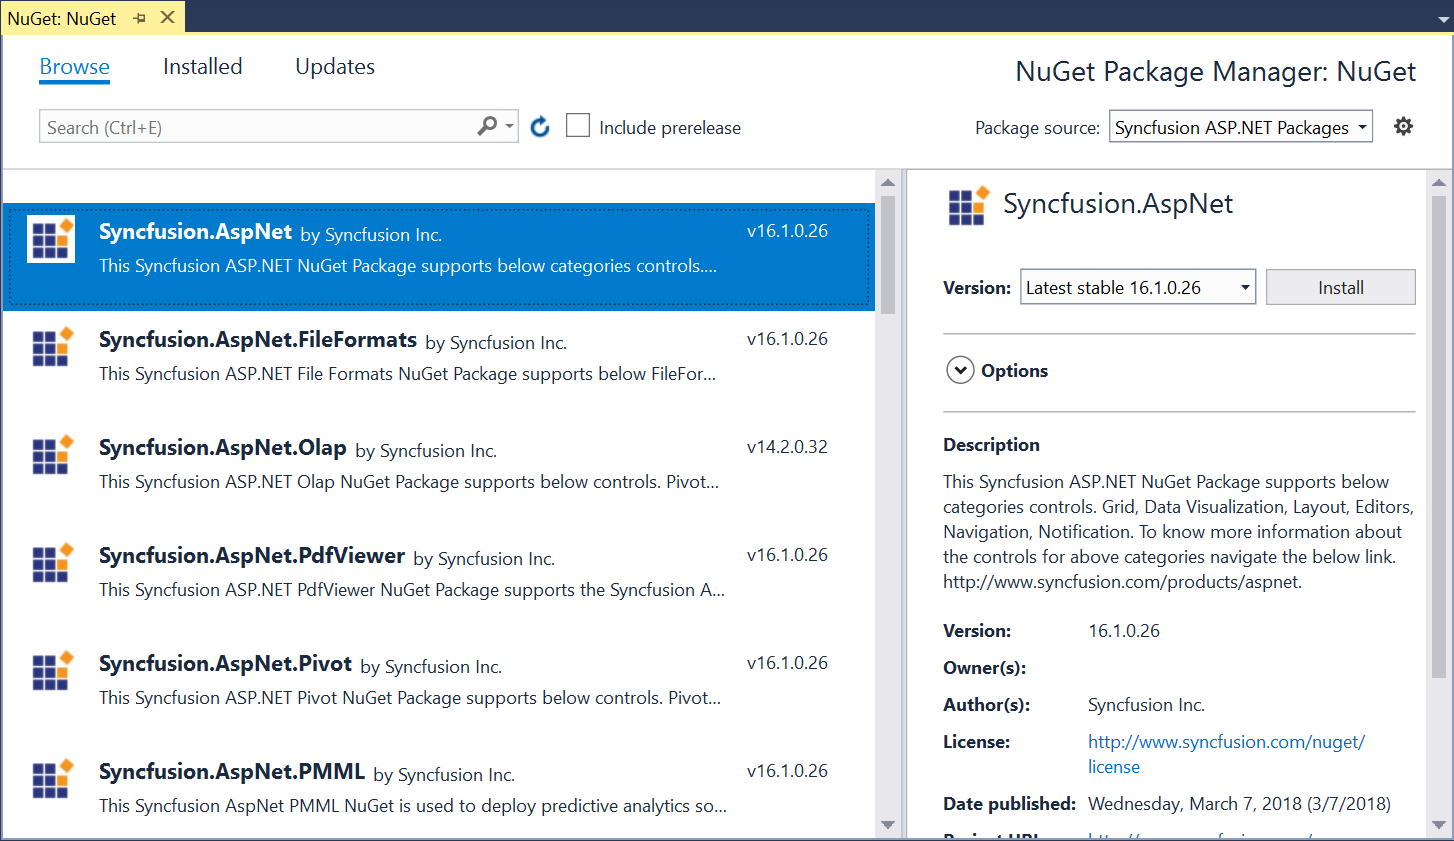
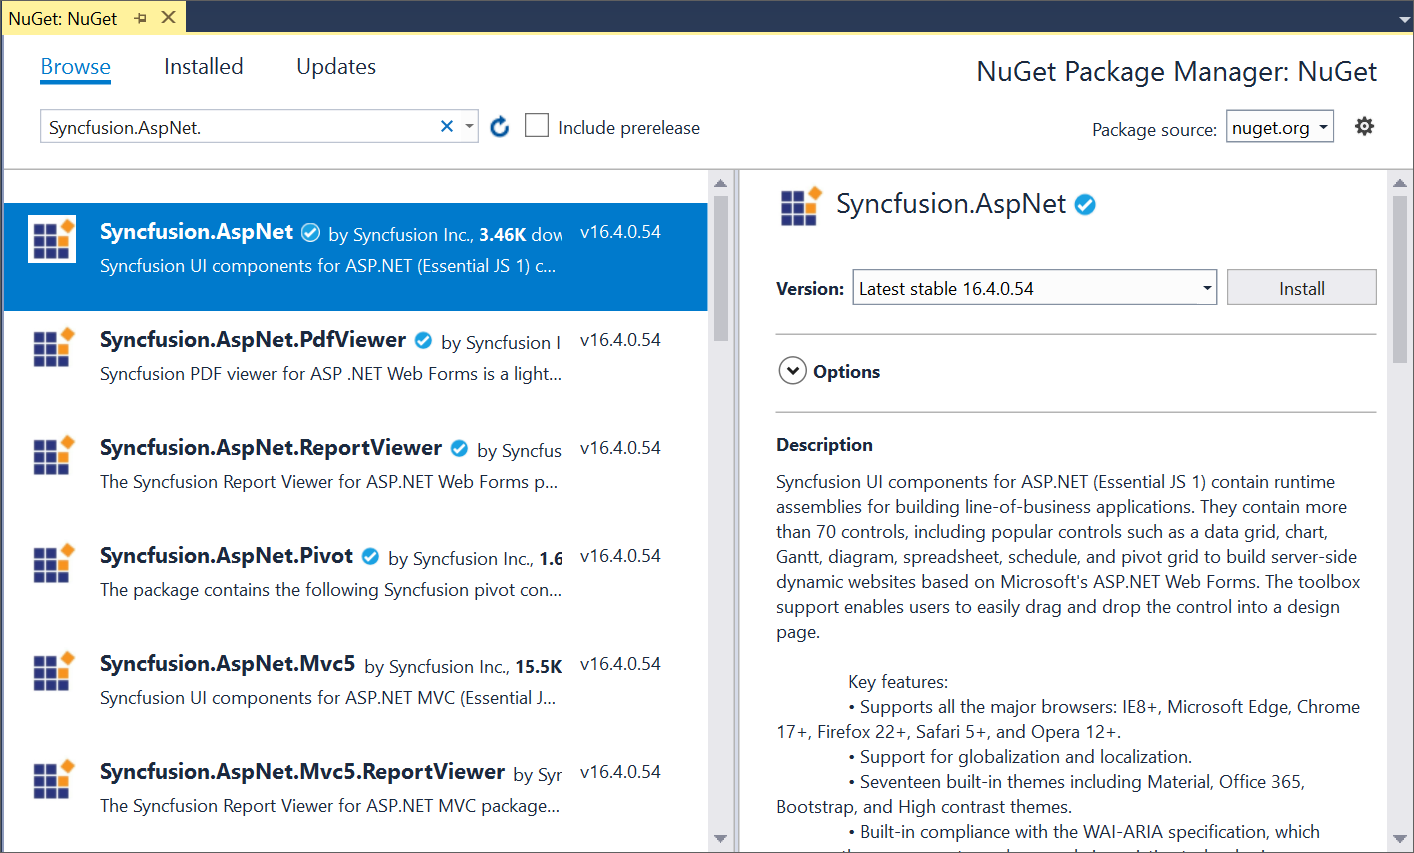
EXT-4130_NugetOrg_Content_added_ASPNET_Changes_committed

Changed region(s): [[0.0, 0.0, 1.0, 1.0], [0.0, 0.0, 0.1556, 0.0309]]

diff --git a/aspnet/NuGet-Packages.md b/aspnet/NuGet-Packages.md
@@ -13,96 +13,37 @@ NuGet is a package manager for the .NET framework. The NuGet client tools simpli
 
 N> You can use the Syncfusion ASP.NET Web Forms NuGet packages without installing the Essential Studio or ASP.NET Web Forms platform installation to implement the Syncfusion ASP.NET controls.
 
-## Get the Syncfusion NuGet feed URL
-
-You should get the private Syncfusion ASP.NET Web Forms NuGet feed URL to install or upgrade the Syncfusion ASP.NET Web Forms NuGet packages. To get the URL from Syncfusion website use the following steps:
-
-1. Navigate to [nuget.syncfusion.com](https://nuget.syncfusion.com/), and select **WEB** tab.     
-
-2. Navigate to **WEB (Essential JS1)**, click the Copy URL label under ASP.NET Web Forms platform to copy the Syncfusion ASP.NET Web Forms platform NuGet feed to clipboard or directly use the following URL: 
-
-    [https://nuget.syncfusion.com/nuget_aspnet/nuget/getsyncfusionpackages/aspnet](https://nuget.syncfusion.com/nuget_aspnet/nuget/getsyncfusionpackages/aspnet) 
-
-    ![](NuGet_Packages_Images/img1.png)
-
-3. Now, use this NuGet feed URL to access the Syncfusion NuGet Packages in Visual Studio. 
-
-## Add the Syncfusion NuGet feed URL
-
-### Windows
-
-1.	Open your Visual Studio application. 
-
-2.	On the **Tools** menu, select **Options**.
-
-3.	Expand the **NuGet Package Manager** and select **Package Sources**.
-
-4.	Click the **Add** button (green plus), and enter the ‘Package Name’ and ‘Package Source URL’ of the Syncfusion ASP.NET Web Forms NuGet packages.
-    
-    **Name:** Name of the package listed in the available package sources.
-    
-    **Source:** Syncfusion ASP.NET NuGet Feed URL      
-    [https://nuget.syncfusion.com/nuget_aspnet/nuget/getsyncfusionpackages/aspnet](https://nuget.syncfusion.com/nuget_aspnet/nuget/getsyncfusionpackages/aspnet).
-
-5.	Click the **Update** button to add the name and source details to package sources. 
-
-    ![](NuGet_Packages_Images/img2.png)
-
-### macOS 
-
-1.	Open your Visual Studio application. 
-
-2.	Right-click on the Packages folder in the project, and then select **Add Packages…**
- 
-    ![](NuGet_Packages_Images/img3.png)
-
-3.	Choose the **Configure Sources…** from the dropdown that appears in the left corner of the Add Packages dialog. 
-
-    ![](NuGet_Packages_Images/img4.png)
-
-4.	At the bottom right corner of the dialog, click the **Add** button to enter the feed name and the URL. 
-   
-    **Name:** Enter the name (For e.g., Syncfusion ASP.NET Web Forms Packages).
-   
-    **Location:** Enter the following URL – [https://nuget.syncfusion.com/nuget_aspnet/nuget/getsyncfusionpackages/aspnet](https://nuget.syncfusion.com/nuget_aspnet/nuget/getsyncfusionpackages/aspnet).
-
-    ![](NuGet_Packages_Images/img5.png)
- 
-5.	Now, click **Add Source** and then click **OK**.
-
 ## Installing NuGet Packages
 
 ### Using NuGet Package Manager
 
 The NuGet Package Manager can be used to search and install NuGet packages in the Visual Studio solution or project:
 
-1.	On the **Tools**, menu, NuGet `Package Manager | Manage NuGet Packages for Solution...`
+1.	Right-click the project or solution in the Solution Explorer tab, and choose **Manage NuGet Packages…**
 
     ![](NuGet_Packages_Images/img6.png)
 
-    Alternatively, right-click on the project/solution in Solution Explorer tab, and choose **Manage NuGet Packages…**
+    Alternatively, click **Tools** menu, `NuGet Package Manager | Manage NuGet Packages for Solution...`
 
-2.	By default, the NuGet.org package is selected in the **Package source** drop-down. Select your appropriate feed name that you configured. 
+2.	By default, the NuGet.org package is selected in the **Package source** drop-down. If NuGet.org is not configured in your Visual Studio, refer to the [Microsoft docs](https://docs.microsoft.com/en-us/nuget/tools/package-manager-ui#package-sources) to configure NuGet.org feed URL in your Visual Studio. 
 
      ![](NuGet_Packages_Images/img7.png)             
 
 3.	The Syncfusion ASP.NET Web Forms NuGet Packages are listed and available in the package source feed URL. Search and install the required packages in your application, by clicking **Install** button.
 
+N> The Syncfusion NuGet packages are published in public [NuGet.org](https://www.nuget.org/) from v16.2.0.46. So, If you need to Install earlier version of 16.2.0.46 Syncfusion NuGet packages, [configure Syncfusion private feed URL](https://help.syncfusion.com/extension/syncfusion-nuget-packages/nuget-packages#syncfusion-nuget-feed-url-configuration).
 
 ### Using Package Manager Console
 
-To reference the Syncfusion ASP.NET Web Forms component using the Package Manager Console as NuGet packages, 
+To reference the Syncfusion ASP.NET Web Forms component using the Package Manager Console as NuGet packages, follow the below steps. 
 
 1.	On the **Tools** menu, select **NuGet Package Manager** and then **Package Manager Console**. 
 
-2.	Run the following NuGet installation commands: 
+2.	Run the following NuGet installation commands. 
 
     ~~~
     #install specified package in default project
     Install-Package <Package Name>
-
-    #install specified package in default project with specified package source
-    Install-Package <Package Name> -Source <Source Location>
 
     #install specified package in specified project 
     Install-Package <Package Name> - ProjectName <Project Name>
@@ -114,9 +55,6 @@ To reference the Syncfusion ASP.NET Web Forms component using the Package Manage
     #install specified package in default project
     Install-Package Syncfusion.AspNet
 
-    #install specified package in default project with specified Package Source
-    Install-Package Syncfusion.AspNet -Source “https://nuget.syncfusion.com/nuget_aspnet/nuget/getsyncfusionpackages/aspnet”
-
     #install specified package in specified project 
     Install-Package Syncfusion.AspNet -ProjectName SyncfusionDemoApplication
     ~~~
@@ -125,13 +63,13 @@ To reference the Syncfusion ASP.NET Web Forms component using the Package Manage
 ### Using Visual Studio for macOS
 
 
-Add packages can be used to search and install NuGet packages to the Visual Studio project in macOS:
+Add packages can be used to search and install NuGet packages to the Visual Studio project in macOS.
 
-1.	Right-click on the folder in the project, and then select **Add Packages…** 
+1.	Right-click the folder in the project, and then select **Add Packages…** 
 
     ![](NuGet_Packages_Images/img8.png)  
               
-2.	By default, the NuGet.org package is selected in the **Package source** drop-down. Select the appropriate feed name. 
+2.	By default, the NuGet.org package is selected in the **Package source** drop-down. 
 
     ![](NuGet_Packages_Images/img9.png)  
 
@@ -141,39 +79,15 @@ Add packages can be used to search and install NuGet packages to the Visual Stud
 
 The NuGet Command Line Interface (CLI), nuget.exe, provides the full extent of NuGet functionality to install, create, publish, and manage packages without making any change to the project files.
 
-### Configure NuGet feed URL 
-
 1.	Download the latest NuGet CLI from [here](https://dist.nuget.org/win-x86-commandline/latest/nuget.exe).
 
-    N> To update the existing nuget.exe to latest version use the following command:
+    N> To update the existing nuget.exe to latest version use the following command.
 
     ~~~
     nuget update -self
     ~~~
 
-2.	Open the downloaded executable location in the command window, and run the following commands to configure the Syncfusion ASP.NET Web Forms NuGet packages: 
-
-    ~~~
-    #Add specified package source in NuGet.config file for Windows platform
-    nuget.exe Sources Add –Name <Source name> –Source <Source location>
-
-    #Add specified Package Source in Nuget.config file for MAC/Linux platform
-    mono nuget.exe Sources Add –Name <Source name> –Source <Source location>
-    ~~~
-
-    **For example:**
-
-    ~~~
-    #For Windows platform
-    nuget.exe Sources Add –Name “Syncfusion Source” –Source “https://nuget.syncfusion.com/nuget_aspnet/nuget/getsyncfusionpackages/aspnet”
-
-    #For MAC/Linux platform
-    mono nuget.exe Sources Add –Name “Syncfusion Source” –Source “https://nuget.syncfusion.com/nuget_aspnet/nuget/getsyncfusionpackages/aspnet”
-    ~~~
-
-### NuGet installation
-
-Download and install the required NuGet packages to a project specified in the package.config. 
+2.	Open the downloaded executable location in the command window, and run the following commands to download and install the required NuGet packages to a project specified in the package.config.  
 
 ~~~
 #install specified package in default project from specified package source for Windows Platform 
@@ -194,27 +108,23 @@ nuget.exe install “Syncfusion.AspNet”
 #install all package which mention in package.config path for Windows 
 nuget.exe install “C:\Users\SyncfusionApplication\package.config”
 
-#install specific Syncfusion NuGet package with Syncfusion ASP.NET Web Forms NuGet feed for Windows 
-nuget.exe install “Syncfusion.AspNet” –Source "https://nuget.syncfusion.com/nuget_aspnet/nuget/getsyncfusionpackages/aspnet”
-
 #install specific package for Mac and Linux 
 mono nuget.exe install “Syncfusion.AspNet”
 
 #install all package which mention in package.config path for Mac and Linux 
 mono nuget.exe install “C:\Users\SyncfusionApplication\package.config”
-
-#install specific Syncfusion NuGet package with Syncfusion ASP.NET Web Forms NuGet feed for Mac and Linux 
-mono nuget.exe install “Syncfusion.AspNet” –Source “https://nuget.syncfusion.com/nuget_aspnet/nuget/getsyncfusionpackages/aspnet”
 ~~~
+
+N> If you need to Install earlier version of 16.2.0.46 Syncfusion NuGet packages, [configure Syncfusion private feed URL](https://help.syncfusion.com/extension/syncfusion-nuget-packages/nuget-packages#syncfusion-nuget-feed-url-configuration).
 
 ## Upgrading NuGet packages
 
-### Using NuGet Package Manger 
+### Using NuGet Package Manager 
 
-NuGet packages can be updated to their specific version or latest version available in the Visual Studio solution or project:
+NuGet packages can be updated to their specific version or latest version available in the Visual Studio solution or project.
 
-1. On the **Tools** menu, **NuGet Package Manager | Manage NuGet Packages for Solution...**
-    Alternatively, right-click on project/solution in the Solution Explorer tab, and choose **Manage NuGet Packages…**
+1. Right-click the project or solution in the Solution Explorer tab, and choose **Manage NuGet Packages…**
+   Alternatively, click **Tools** menu, `NuGet Package Manager | Manage NuGet Packages for Solution...`
 
 2. Select the **Updates** tab to see the packages available for update from the desired package sources. Select the required packages and the specific version from the dropdown, and click the **Update** button.
 
@@ -222,21 +132,21 @@ NuGet packages can be updated to their specific version or latest version availa
 
 Using **Update** context menu from Visual Studio for Mac application, NuGet packages can be updated:
 
-1.	Right-click on the Packages folder in the project, and select **Update**. 
+1.	Right-click the Packages folder in the project, and select **Update**. 
 
     ![](NuGet_Packages_Images/img10.png) 
 
-2.	This will update the NuGet package to the latest version. You can double-click Add packages and choose the specific version.
+2.	This will update the NuGet package to the latest version. You can double-click the Add packages and choose the specific version.
 
 N> To update all the projects from solution, use update option in the solution level. 
 
 ### Using Package Manger Console
 
-To update the installed Syncfusion ASP.NET Web Forms NuGet packages using the Package Manager Console: 
+To update the installed Syncfusion ASP.NET Web Forms NuGet packages using the Package Manager Console, follow the below steps. 
 
 1.	On the **Tools** menu, select **NuGet Package Manager**, and then **Package Manager Console.** 
 
-2.	Run the following NuGet installation commands:
+2.	Run the following NuGet installation commands.
 
     ~~~ 
     #Update specific NuGet package in default project
@@ -244,9 +154,6 @@ To update the installed Syncfusion ASP.NET Web Forms NuGet packages using the Pa
 
     #Update all the packages in default project
     Update-Package 
-
-    #Update specified package in default project with specified package source
-    Update-Package <Package Name> -Source <Source Location>
 
     #Update specified package in specified project 
     Update-Package <Package Name> - ProjectName <Project Name>
@@ -258,20 +165,17 @@ To update the installed Syncfusion ASP.NET Web Forms NuGet packages using the Pa
     #Update specified Syncfusion ASP.NET Web Forms NuGet package 
     Update-Package Syncfusion.AspNet
 
-    #Update specified package in default project with specified Package Source
-    Update-Package Syncfusion.AspNet –Source “https://nuget.syncfusion.com/nuget_aspnet/nuget/getsyncfusionpackages/aspnet” 
-
     #Update specified package in specified project 
     Update-Package Syncfusion.AspNet -ProjectName SyncfusionDemoApplication
     ~~~
 
 ### Using NuGet CLI
 
-Using the NuGet CLI, all the NuGet packages in the project can be updated to the available latest version: 
+Using the NuGet CLI, all the NuGet packages in the project can be updated to the available latest version. 
 
 1.	Download the latest NuGet CLI from [here](https://dist.nuget.org/win-x86-commandline/latest/nuget.exe).
 
-    N> To update the existing nuget.exe to latest version use the following command:
+    N> To update the existing nuget.exe to latest version use the following command.
 
     ~~~
     nuget update -self
@@ -283,8 +187,8 @@ Using the NuGet CLI, all the NuGet packages in the project can be updated to the
     #update all NuGet packages from config file
     nuget update <configPath> [options]
 
-    #update all NuGet packages from specified Packages Source
-    nuget update -Source <Source Location> [optional]
+    #update all NuGet packages
+    nuget update 
     ~~~      
 
     N> configPath is optional. This identifies the packages.config or solutions file lists the packages utilized in the project. 
@@ -294,15 +198,97 @@ Using the NuGet CLI, all the NuGet packages in the project can be updated to the
     ~~~          
     #Update all NuGet packages from config file
     nuget update “C:\Users\SyncfusionApplication\package.config”
-
-    #Update all NuGet packages from specified Packages Source
-    nuget update -Source “https://nuget.syncfusion.com/nuget_aspnet/nuget/getsyncfusionpackages/aspnet”
     ~~~
 
     N> Update command is not working as expected in Mono (Mac and Linux) and projects using PackageReference format.
    
+## Syncfusion NuGet feed URL Configuration
 
+### Get the Syncfusion NuGet feed URL 
 
+You should get the private Syncfusion ASP.NET Web Forms NuGet feed URL to install or upgrade the Syncfusion ASP.NET Web Forms NuGet packages. To get the URL from Syncfusion website use the following steps:
 
+1. Navigate to [nuget.syncfusion.com](https://nuget.syncfusion.com/), and select the **WEB** tab.     
+
+2. Navigate to **WEB (Essential JS1)**, click the Copy URL label under ASP.NET Web Forms platform to copy the Syncfusion ASP.NET Web Forms platform NuGet feed to clipboard or directly use the following URL: 
+
+    [https://nuget.syncfusion.com/nuget_aspnet/nuget/getsyncfusionpackages/aspnet](https://nuget.syncfusion.com/nuget_aspnet/nuget/getsyncfusionpackages/aspnet) 
+
+    ![](NuGet_Packages_Images/img1.png)
+
+3. Now, use this NuGet feed URL to access the Syncfusion NuGet Packages in Visual Studio. 
+
+### Add the Syncfusion NuGet feed URL
+
+#### Windows
+
+1.	Open your Visual Studio application. 
+
+2.	On the **Tools** menu, select **Options**.
+
+3.	Expand the **NuGet Package Manager** and select **Package Sources**.
+
+4.	Click the **Add** button (green plus), and enter the ‘Package Name’ and ‘Package Source URL’ of the Syncfusion ASP.NET Web Forms NuGet packages.
+    
+    **Name:** Name of the package listed in the available package sources.
+    
+    **Source:** Syncfusion ASP.NET NuGet Feed URL      
+    [https://nuget.syncfusion.com/nuget_aspnet/nuget/getsyncfusionpackages/aspnet](https://nuget.syncfusion.com/nuget_aspnet/nuget/getsyncfusionpackages/aspnet).
+
+5.	Click the **Update** button to add the name and source details to package sources. 
+
+    ![](NuGet_Packages_Images/img2.png)
+
+#### macOS 
+
+1.	Open your Visual Studio application. 
+
+2.	Right-click the Packages folder in the project, and then select **Add Packages…**
+ 
+    ![](NuGet_Packages_Images/img3.png)
+
+3.	Choose the **Configure Sources…** from the dropdown that appears in the left corner of the Add Packages dialog. 
+
+    ![](NuGet_Packages_Images/img4.png)
+
+4.	At the bottom right corner of the dialog, click the **Add** button to enter the feed name and the URL. 
+   
+    **Name:** Enter the name (For e.g., Syncfusion ASP.NET Web Forms Packages).
+   
+    **Location:** Enter the following URL – [https://nuget.syncfusion.com/nuget_aspnet/nuget/getsyncfusionpackages/aspnet](https://nuget.syncfusion.com/nuget_aspnet/nuget/getsyncfusionpackages/aspnet).
+
+    ![](NuGet_Packages_Images/img5.png)
+ 
+5.	Now, click **Add Source** and then click **OK**.
+
+#### NuGet CLI 
+
+1.	Download the latest NuGet CLI from [here](https://dist.nuget.org/win-x86-commandline/latest/nuget.exe).
+
+    N> To update the existing nuget.exe to latest version use the following command.
+
+    ~~~
+    nuget update -self
+    ~~~
+
+2.	Open the downloaded executable location in the command window, and run the following commands to configure the Syncfusion ASP.NET Web Forms NuGet packages. 
+
+    ~~~
+    #Add specified package source in NuGet.config file for Windows platform
+    nuget.exe Sources Add –Name <Source name> –Source <Source location>
+
+    #Add specified Package Source in Nuget.config file for MAC/Linux platform
+    mono nuget.exe Sources Add –Name <Source name> –Source <Source location>
+    ~~~
+
+    **For example:**
+
+    ~~~
+    #For Windows platform
+    nuget.exe Sources Add –Name “Syncfusion Source” –Source “https://nuget.syncfusion.com/nuget_aspnet/nuget/getsyncfusionpackages/aspnet”
+
+    #For MAC/Linux platform
+    mono nuget.exe Sources Add –Name “Syncfusion Source” –Source “https://nuget.syncfusion.com/nuget_aspnet/nuget/getsyncfusionpackages/aspnet”
+    ~~~
 
 
